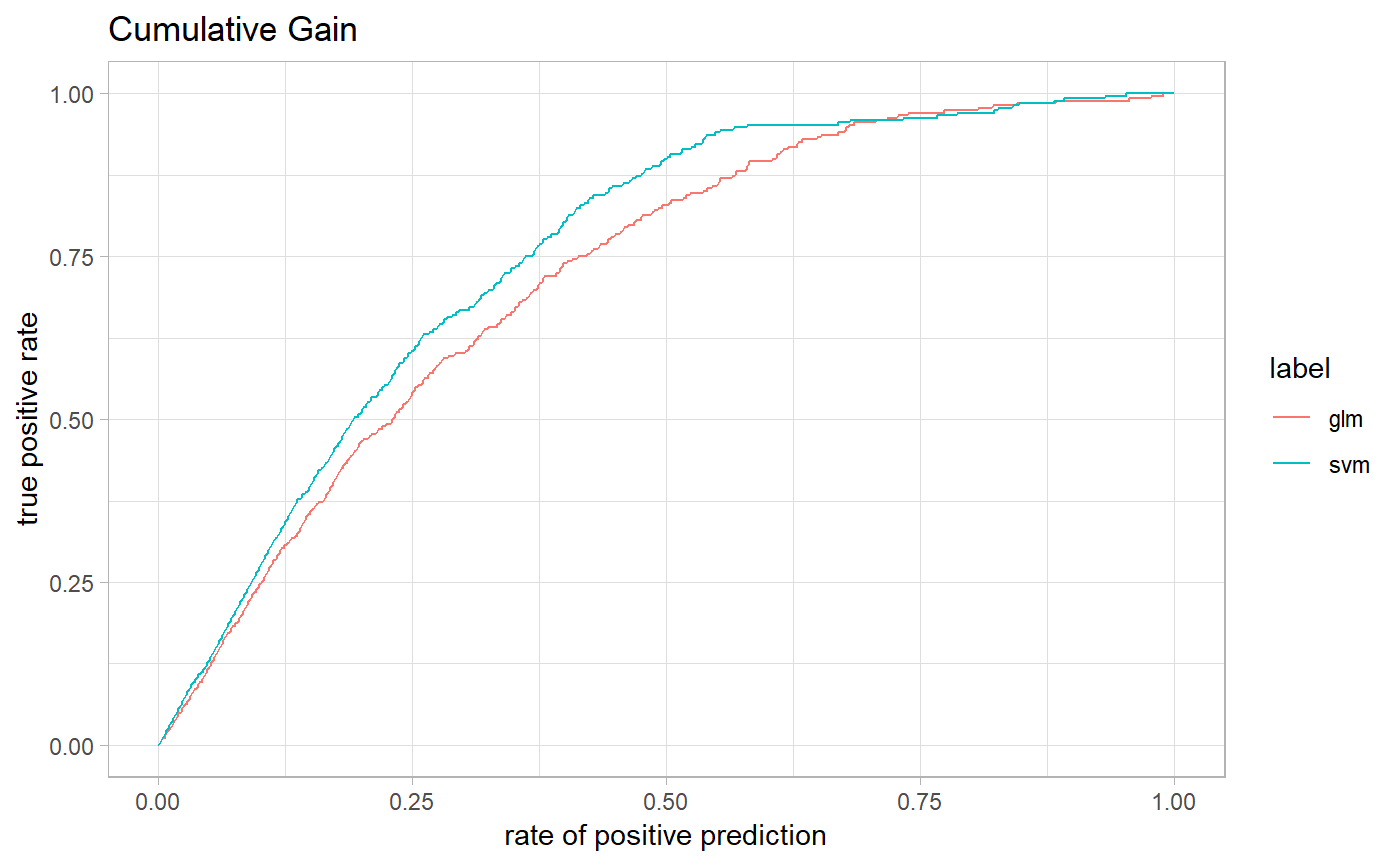
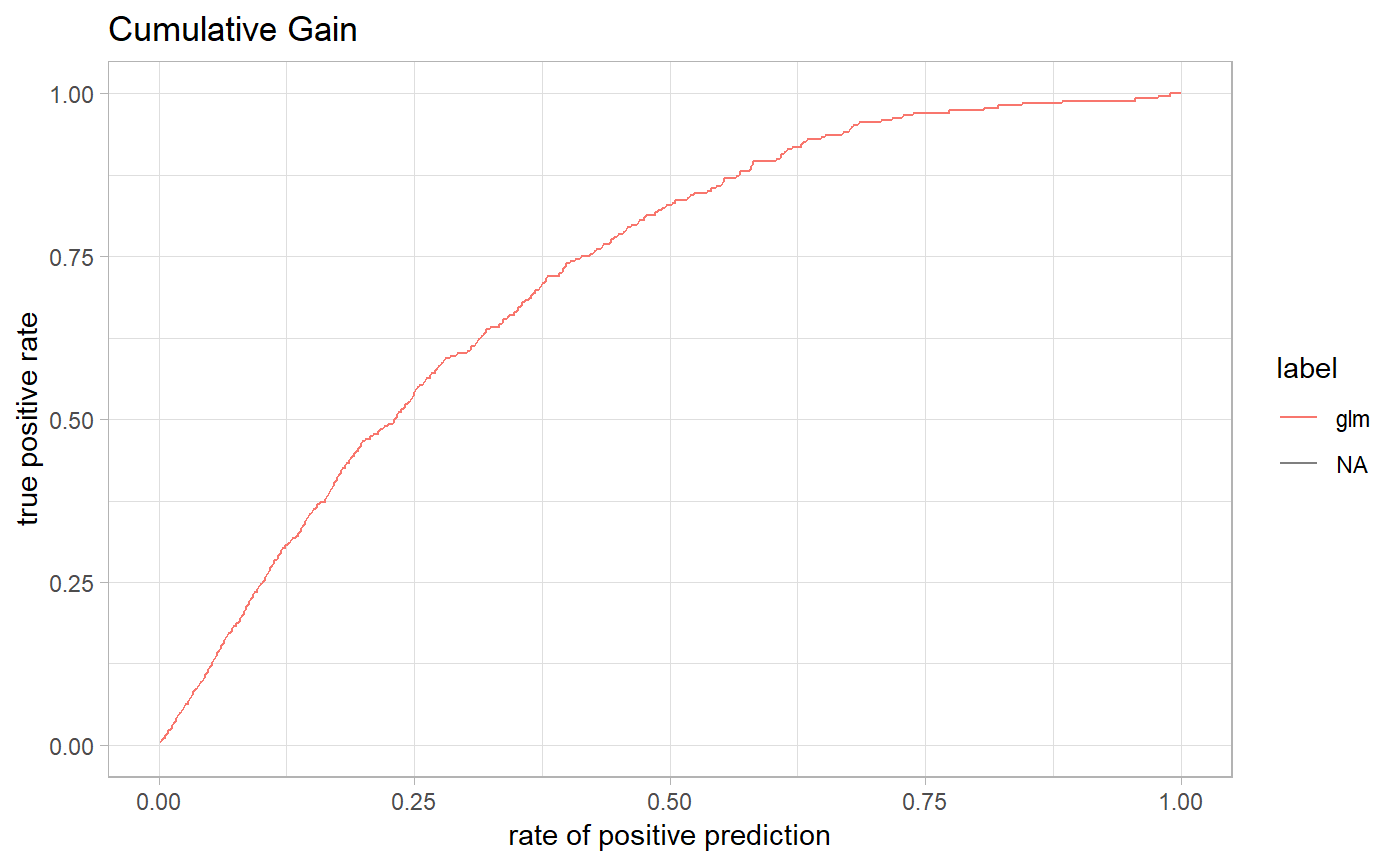
Update website

diff --git a/docs/articles/model_residuals_audit.html b/docs/articles/model_residuals_audit.html
@@ -82,7 +82,7 @@
       <h1>Model Residuals Audit</h1>
                         <h4 class="author">Alicja Gosiewska</h4>
             
-            <h4 class="date">2018-07-23</h4>
+            <h4 class="date">2018-07-26</h4>
       
       
       <div class="hidden name"><code>model_residuals_audit.Rmd</code></div>
@@ -91,10 +91,9 @@
 
     
     
-<p>This vignette demonstrates how to use the <em>auditor</em> package for auditing model residuals. auditor provides methods for model verification and validation by error analysis.</p>
-<p>Many models, such as random forests and neutral networks are nowadays treated as black boxes. Therefore, there is a lack of theory that describes the behavior of errors in those models.</p>
-<p>Most methods provided in auditor package are model-agnostic, so can be used regardless of knowledge about errors.</p>
-<p>Some of the graphical error analysis methods also have corresponding SCORES, which allow comparison of two models.</p>
+<p>This vignette demonstrates how to use the <em>auditor</em> package for auditing residuals of models. The auditor provides methods for model verification and validation by error analysis.</p>
+<p>Many models, such as random forests and neutral networks are nowadays treated as black boxes. Therefore, there is a lack of theory that describes the behavior of errors in those models. Most methods provided in auditor package are model-agnostic, so can be used regardless of knowledge about errors.</p>
+<p>Some of the graphical error analysis methods also have corresponding scores, which allow comparison of two models.</p>
 <div id="regression-use-case---apartments-data" class="section level1">
 <h1 class="hasAnchor">
 <a href="#regression-use-case---apartments-data" class="anchor"></a>Regression use case - apartments data</h1>
@@ -150,7 +149,7 @@ rf_audit &lt;-<span class="st"> </span><span class="kw"><a href="../reference/au
 <a href="#audit-pipelines" class="anchor"></a>Audit pipelines</h2>
 <p>The auditor provides 2 pipelines of model audit.</p>
 <ol style="list-style-type: decimal">
-<li><p><strong>model %&gt;% audit() %&gt;% modelResiduals() %&gt;% plot(type=…)</strong> This pipeline is recommended. Function <code><a href="../reference/modelResiduals.html">modelResiduals()</a></code> creates a <code>modelResiduals</code> object. Such object may be passed to a <code>plot()</code> function with defined type of plot. This approach requires one additional function within the pipeline. However once created <code>modelResiduals</code> contains all nessesary calculations that all plots require. Therefore, generating multiple plots is fast.<br>
+<li><p><strong>model %&gt;% audit() %&gt;% modelResiduals() %&gt;% plot(type=…)</strong> This pipeline is recommended. Function <code><a href="../reference/modelResiduals.html">modelResiduals()</a></code> creates a <code>modelResiduals</code> object. Such object may be passed to a <code>plot()</code> function with defined type of plot. This approach requires one additional function within the pipeline. However, once created <code>modelResiduals</code> contains all nessesary calculations that all plots require. Therefore, generating multiple plots is fast.<br>
 Alternative: <strong>model %&gt;% audit() %&gt;% modelResiduals() %&gt;% plotType()</strong></p></li>
 <li><p><strong>model %&gt;% audit() %&gt;% plot(type=…)</strong> This pipeline is shorter than previous one. Calculations are carried out every time a function is called. However, it is faster to use.<br>
 Alternative <strong>model %&gt;% audit() %&gt;% plotType()</strong></p></li>
@@ -160,7 +159,7 @@ Alternative <strong>model %&gt;% audit() %&gt;% plotType()</strong></p></li>
 <div id="modelresiduals" class="section level2">
 <h2 class="hasAnchor">
 <a href="#modelresiduals" class="anchor"></a>modelResiduals()</h2>
-<p>In this vignette we will use first pipeline. However alternative evaluations will be showed as comments. First, we need to create a <code>modelResiduals</code> objects.</p>
+<p>In this vignette we use first pipeline. However, alternative evaluations are showed as comments. First, we need to create a <code>modelResiduals</code> objects.</p>
 <div class="sourceCode"><pre class="sourceCode r"><code class="sourceCode r">lm_mr &lt;-<span class="st"> </span><span class="kw"><a href="../reference/modelResiduals.html">modelResiduals</a></span>(lm_audit)
 rf_mr &lt;-<span class="st"> </span><span class="kw"><a href="../reference/modelResiduals.html">modelResiduals</a></span>(rf_audit)
 
@@ -195,7 +194,7 @@ rf_mr_fitted &lt;-<span class="st"> </span><span class="kw"><a href="../referenc
 <h3 class="hasAnchor">
 <a href="#plotacf---autocorrelation-function-of-residuals" class="anchor"></a>plotACF() - Autocorrelation Function of Residuals</h3>
 <p>Autocorrelation Function plot can be used to check randomness of errors. If random, autocorrelations should be near zero for lag separations. If non-random, then autocorrelations will be significantly non-zero.</p>
-<p>Residuals may be ordered by values any model variable or by fitted values. If variable is not specified, order from the data set is taken.</p>
+<p>Residuals may be ordered by values of any model variable or by fitted values. If variable is not specified, function takes order from the data set.</p>
 <div class="sourceCode"><pre class="sourceCode r"><code class="sourceCode r">lm_mr_surface &lt;-<span class="st"> </span><span class="kw"><a href="../reference/modelResiduals.html">modelResiduals</a></span>(lm_audit, <span class="dt">variable =</span> <span class="st">"surface"</span>)
 <span class="kw">plot</span>(lm_mr_surface, <span class="dt">type =</span> <span class="st">"ACF"</span>)</code></pre></div>
 <p><img src="model_residuals_audit_files/figure-html/unnamed-chunk-7-1.png" width="700"></p>
@@ -211,7 +210,7 @@ rf_mr_fitted &lt;-<span class="st"> </span><span class="kw"><a href="../referenc
 <p><img src="model_residuals_audit_files/figure-html/unnamed-chunk-8-1.png" width="700"></p>
 <div class="sourceCode"><pre class="sourceCode r"><code class="sourceCode r"><span class="co"># alternative:</span>
 <span class="co"># plotAutocorrelation(rf_audit, variable = "Fitted values")</span></code></pre></div>
-<p>DW score and Runs score are based on Durbin-Watson and Runs test statistics. Details and interpretation of scores are described in <code><a href="../reference/scoreDW.html">scoreDW()</a></code> and <code><a href="../reference/scoreRuns.html">scoreRuns()</a></code> functions.</p>
+<p>DW score and Runs score are based on Durbin-Watson and Runs test statistics.</p>
 <p>Scores can be calculated with the <code><a href="../reference/scoreDW.html">scoreDW()</a></code> and <code><a href="../reference/scoreRuns.html">scoreRuns()</a></code> functions or the <code><a href="../reference/score.html">score()</a></code> function with argument <code>score</code> equals to “DW” or “Runs”.</p>
 <div class="sourceCode"><pre class="sourceCode r"><code class="sourceCode r">rf_score_DW &lt;-<span class="st"> </span><span class="kw"><a href="../reference/scoreDW.html">scoreDW</a></span>(rf_audit, <span class="dt">variable =</span> <span class="st">"Fitted values"</span>)
 rf_score_Runs &lt;-<span class="st"> </span><span class="kw"><a href="../reference/scoreRuns.html">scoreRuns</a></span>(rf_audit, <span class="dt">variable =</span> <span class="st">"Fitted values"</span>)
@@ -242,7 +241,7 @@ rf_score_DW<span class="op">$</span>score</code></pre></div>
 <div id="plotpredition---observed-vs-predicted" class="section level3">
 <h3 class="hasAnchor">
 <a href="#plotpredition---observed-vs-predicted" class="anchor"></a>plotPredition() - Observed vs Predicted</h3>
-<p>Basic plot of residuals vs observed, fitted or variable values. Without specified variable observations are in the order from the data set.</p>
+<p>Basic plot of residuals vs observed, fitted or variable values. If variable is not specified, function takes order from the data set.</p>
 <p>Black line corresponds to the y=x function.</p>
 <div class="sourceCode"><pre class="sourceCode r"><code class="sourceCode r">lm_mr_m2 &lt;-<span class="st"> </span><span class="kw"><a href="../reference/modelResiduals.html">modelResiduals</a></span>(lm_audit, <span class="dt">variable =</span> <span class="st">"m2.price"</span>)
 rf_mr_m2 &lt;-<span class="st"> </span><span class="kw"><a href="../reference/modelResiduals.html">modelResiduals</a></span>(rf_audit, <span class="dt">variable =</span> <span class="st">"m2.price"</span>)
@@ -270,12 +269,11 @@ rf_mr_m2 &lt;-<span class="st"> </span><span class="kw"><a href="../reference/mo
 <h3 class="hasAnchor">
 <a href="#plotresidual---plot-residuals-vs-observed-fitted-or-variable-values" class="anchor"></a>plotResidual() - Plot Residuals vs Observed, Fitted or Variable Values</h3>
 <p>Basic plot of residuals vs observed, fitted or variable values. It provides information about the structure of the model.</p>
-<p>Without specified variable observations are in the order from the data set.</p>
 <div class="sourceCode"><pre class="sourceCode r"><code class="sourceCode r"><span class="kw">plot</span>(rf_mr, <span class="dt">type =</span> <span class="st">"Residual"</span>)</code></pre></div>
 <p><img src="model_residuals_audit_files/figure-html/unnamed-chunk-15-1.png" width="700"></p>
 <div class="sourceCode"><pre class="sourceCode r"><code class="sourceCode r"><span class="co"># alternative:</span>
 <span class="co"># plotResidual(rf_audit)</span></code></pre></div>
-<p>Residuals may be ordered by values any model variable or by fitted values. And both models may be plotted together.</p>
+<p>Residuals may be ordered by values any model variable or by fitted values. And both models may be plotted together. If variable is not specified, function takes order from the data set.</p>
 <div class="sourceCode"><pre class="sourceCode r"><code class="sourceCode r"><span class="kw">plot</span>(rf_mr_fitted, lm_mr_fitted, <span class="dt">type =</span> <span class="st">"Residual"</span>)</code></pre></div>
 <p><img src="model_residuals_audit_files/figure-html/unnamed-chunk-16-1.png" width="700"></p>
 <div class="sourceCode"><pre class="sourceCode r"><code class="sourceCode r"><span class="co"># alternative:</span>
@@ -328,7 +326,7 @@ rf_mr_m2 &lt;-<span class="st"> </span><span class="kw"><a href="../reference/mo
 <p><img src="model_residuals_audit_files/figure-html/unnamed-chunk-22-1.png" width="700"></p>
 <div class="sourceCode"><pre class="sourceCode r"><code class="sourceCode r"><span class="co"># alternative:</span>
 <span class="co"># plotScaleLocation(rf_audit, lm_audit, variable = "Fitted values")</span></code></pre></div>
-<p>For comparing 2 models we can use GQ score, which is based on Goldfeld-Quandt test statistic. This score is computed and described in <code><a href="../reference/scoreGQ.html">scoreGQ()</a></code> function. And may be computed also in <code><a href="../reference/score.html">score()</a></code> function with argument <code>score</code> equals “GQ”.</p>
+<p>For comparing 2 models we can use GQ score, which is based on Goldfeld-Quandt test statistic. And may be computed also in <code><a href="../reference/score.html">score()</a></code> function with argument <code>score</code> equals “GQ”.</p>
 </div>
 <div id="plottwosidedecdf---two-sided-empirical-cumulative-distribution-function-ecdf" class="section level3">
 <h3 class="hasAnchor">

diff --git a/docs/articles/observation_influence_audit.html b/docs/articles/observation_influence_audit.html
@@ -82,7 +82,7 @@
       <h1>Observation Influence Audit</h1>
                         <h4 class="author">Alicja Gosiewska</h4>
             
-            <h4 class="date">2018-07-23</h4>
+            <h4 class="date">2018-07-26</h4>
       
       
       <div class="hidden name"><code>observation_influence_audit.Rmd</code></div>
@@ -144,13 +144,13 @@ rf_audit &lt;-<span class="st"> </span><span class="kw"><a href="../reference/au
 <li><p>Which model has better performance?</p></li>
 <li><p>How similar models are?</p></li>
 </ul>
-<p>In further sections we will overview auditor functions for analysis of model residuals. They are discussed in alphabetical order.</p>
+<p>In further sections, we overview auditor functions for analysis of model residuals. They are discussed in alphabetical order.</p>
 <div id="audit-pipelines" class="section level2">
 <h2 class="hasAnchor">
 <a href="#audit-pipelines" class="anchor"></a>Audit pipelines</h2>
 <p>The auditor provides 2 pipelines of observation influence audit.</p>
 <ol style="list-style-type: decimal">
-<li><p><strong>model %&gt;% audit() %&gt;% observationInfluence() %&gt;% plot(type=…)</strong> This pipeline is recommended. Function <code><a href="../reference/observationInfluence.html">observationInfluence()</a></code> creates a <code>observationInfluence</code> object. Such object may be passed to a <code>plot()</code> function with defined type of plot. This approach requires one additional function within the pipeline. However once created <code>observationInfluence</code> contains all nessesary calculations that all plots require. Therefore, generating multiple plots is fast. It is usefull as caluclating Coook’s distances for models gifferent than liner may take a lot of time. Alternative: <strong>model %&gt;% audit() %&gt;% observationInfluence() %&gt;% plotType()</strong></p></li>
+<li><p><strong>model %&gt;% audit() %&gt;% observationInfluence() %&gt;% plot(type=…)</strong> This pipeline is recommended. Function <code><a href="../reference/observationInfluence.html">observationInfluence()</a></code> creates a <code>observationInfluence</code> object. Such object may be passed to a <code>plot()</code> function with defined type of plot. This approach requires one additional function within the pipeline. However, once created <code>observationInfluence</code> contains all nessesary calculations that all plots require. Therefore, generating multiple plots is fast. It is usefull as caluclating Coook’s distances for models gifferent than liner may take a lot of time. Alternative: <strong>model %&gt;% audit() %&gt;% observationInfluence() %&gt;% plotType()</strong></p></li>
 <li><p><strong>model %&gt;% audit() %&gt;% plot(type=…)</strong> This pipeline is shorter than previous one. Calculations are carried out every time a function is called. However, it is faster to use.<br>
 Alternative <strong>model %&gt;% audit() %&gt;% plotType()</strong></p></li>
 </ol>
@@ -159,7 +159,7 @@ Alternative <strong>model %&gt;% audit() %&gt;% plotType()</strong></p></li>
 <div id="observationinfluence" class="section level2">
 <h2 class="hasAnchor">
 <a href="#observationinfluence" class="anchor"></a>observationInfluence()</h2>
-<p>In this vignette we will use first pipeline. However alternative evaluations will be showed as comments. First, we need to create a <code>modelResiduals</code> objects.</p>
+<p>In this vignette we use first pipeline. First, we need to create a <code>modelResiduals</code> objects.</p>
 <div class="sourceCode"><pre class="sourceCode r"><code class="sourceCode r">lm_oi &lt;-<span class="st"> </span><span class="kw"><a href="../reference/observationInfluence.html">observationInfluence</a></span>(lm_audit)
 
 <span class="kw">head</span>(lm_oi)</code></pre></div>

diff --git a/docs/reference/plotCumulativeGain.html b/docs/reference/plotCumulativeGain.html
@@ -142,7 +142,7 @@ It is useful for measuring and comparing the accuracy of the classificators.</p>
 <span class='no'>Pima</span>$<span class='no'>diabetes</span> <span class='kw'>&lt;-</span> <span class='fu'>ifelse</span>(<span class='no'>Pima</span>$<span class='no'>diabetes</span> <span class='kw'>==</span> <span class='st'>"pos"</span>, <span class='fl'>1</span>, <span class='fl'>0</span>)
 <span class='no'>glm_model</span> <span class='kw'>&lt;-</span> <span class='fu'>glm</span>(<span class='no'>diabetes</span>~<span class='no'>.</span>, <span class='kw'>family</span><span class='kw'>=</span><span class='no'>binomial</span>,   <span class='kw'>data</span><span class='kw'>=</span><span class='no'>Pima</span>)
 <span class='no'>glm_au</span> <span class='kw'>&lt;-</span> <span class='fu'><a href='audit.html'>audit</a></span>(<span class='no'>glm_model</span>, <span class='kw'>data</span> <span class='kw'>=</span> <span class='no'>Pima</span>, <span class='kw'>y</span> <span class='kw'>=</span> <span class='no'>Pima</span>$<span class='no'>diabetes</span>)
-<span class='fu'>plotCumulativeGain</span>(<span class='no'>glm_au</span>)</div><div class='img'><img src='plotCumulativeGain-1.png' alt='' width='700' height='433' /></div><div class='input'>
+<span class='fu'>plotCumulativeGain</span>(<span class='no'>glm_au</span>)</div><div class='output co'>#&gt; <span class='warning'>Warning: niepoprawny poziom czynnika, wygenerowano wartość NA</span></div><div class='img'><img src='plotCumulativeGain-1.png' alt='' width='700' height='433' /></div><div class='input'>
 </div></pre>
   </div>
   <div class="col-md-3 hidden-xs hidden-sm" id="sidebar">

diff --git a/docs/articles/model_evaluation_audit.html b/docs/articles/model_evaluation_audit.html
@@ -82,7 +82,7 @@
       <h1>Model Evaluation Audit</h1>
                         <h4 class="author">Alicja Gosiewska</h4>
             
-            <h4 class="date">2018-07-23</h4>
+            <h4 class="date">2018-07-26</h4>
       
       
       <div class="hidden name"><code>model_evaluation_audit.Rmd</code></div>
@@ -126,7 +126,7 @@ model_svm &lt;-<span class="st"> </span><span class="kw">svm</span>(diabetes<spa
 <div id="model-audit" class="section level3">
 <h3 class="hasAnchor">
 <a href="#model-audit" class="anchor"></a>Model Audit</h3>
-<p>First step of auditiong is creation of a <code>modelAudit</code> object. It’s an object that can be used to audit a model. It wraps up a model with meta-data.</p>
+<p>First step of auditing is creating <code>modelAudit</code> object. It’s an object that can be used to audit a model. It wraps up a model with meta-data.</p>
 <div class="sourceCode"><pre class="sourceCode r"><code class="sourceCode r">au_glm &lt;-<span class="st"> </span><span class="kw"><a href="../reference/audit.html">audit</a></span>(model_glm, <span class="dt">data =</span> pima, <span class="dt">y =</span> pima<span class="op">$</span>diabetes)
 au_svm &lt;-<span class="st"> </span><span class="kw"><a href="../reference/audit.html">audit</a></span>(model_svm, <span class="dt">data =</span> pima, <span class="dt">y =</span> pima<span class="op">$</span>diabetes, <span class="dt">label =</span> <span class="st">"svm"</span>)</code></pre></div>
 </div>

diff --git a/docs/articles/model_performance_audit.html b/docs/articles/model_performance_audit.html
@@ -82,7 +82,7 @@
       <h1>Model Performance Audit</h1>
                         <h4 class="author">Alicja Gosiewska</h4>
             
-            <h4 class="date">2018-07-23</h4>
+            <h4 class="date">2018-07-26</h4>
       
       
       <div class="hidden name"><code>model_performance_audit.Rmd</code></div>

diff --git a/docs/articles/model_fit_audit.html b/docs/articles/model_fit_audit.html
@@ -82,7 +82,7 @@
       <h1>Model Fit Audit</h1>
                         <h4 class="author">Alicja Gosiewska</h4>
             
-            <h4 class="date">2018-07-23</h4>
+            <h4 class="date">2018-07-26</h4>
       
       
       <div class="hidden name"><code>model_fit_audit.Rmd</code></div>
